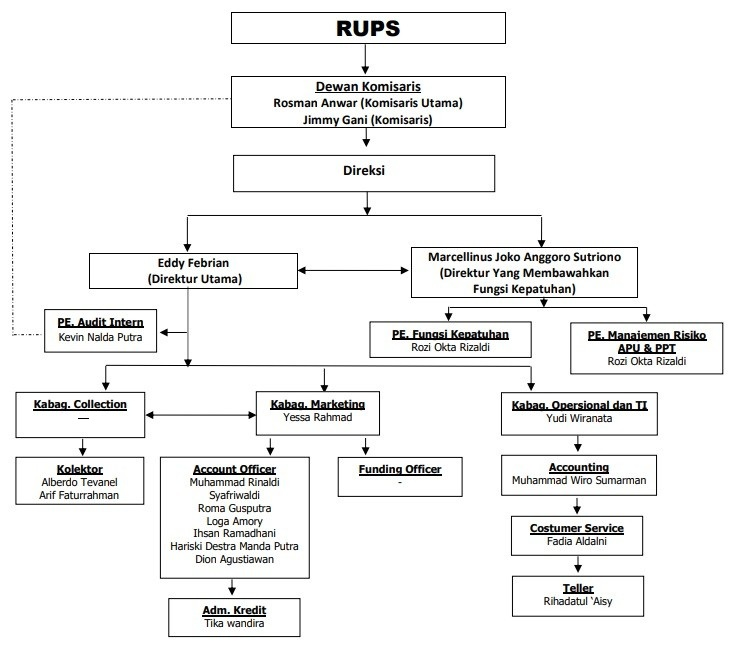
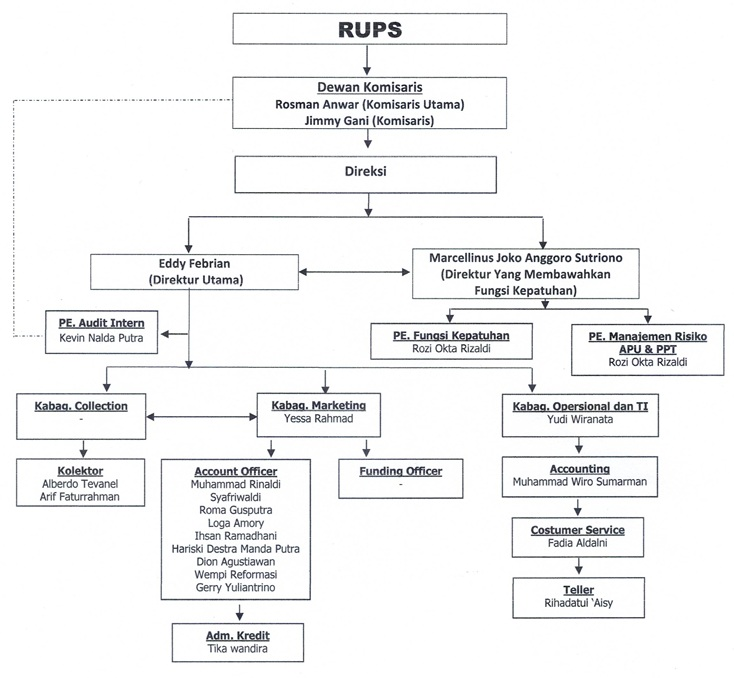
Tambah section promo di home dan update gambar struktur organisasi

diff --git a/resources/views/home.blade.php b/resources/views/home.blade.php
@@ -82,6 +82,59 @@
         </div>
     </section>
 
+    <section id="promo" class="py-20 bg-white">
+        <div class="container mx-auto px-6">
+            <!-- Heading -->
+            <div class="text-center mb-12">
+                <h2 class="text-3xl font-bold mb-4">Promo Terbaru</h2>
+                <p class="text-gray-600 max-w-2xl mx-auto">
+                    Beragam program dan promo menarik dari BPR Tjahaja Baru untuk mendukung masa depan Anda.
+                </p>
+            </div>
+
+            <!-- Grid Promo -->
+            <div class="grid grid-cols-1 sm:grid-cols-2 md:grid-cols-3 lg:grid-cols-5 gap-6 max-w-7xl mx-auto">
+
+                <!-- Promo Item -->
+                <div class="min-w-full sm:min-w-[50%] md:min-w-[33.333%] lg:min-w-[20%] px-3">
+                    <div
+                        class="bg-white rounded-xl shadow hover:shadow-md hover:scale-[1.03] transition duration-300 overflow-hidden">
+                        <img src="{{ url('/images/promo-1.jpg') }}" class="w-full aspect-[5/7] object-cover" alt="Promo 1">
+                    </div>
+                </div>
+
+                <div class="min-w-full sm:min-w-[50%] md:min-w-[33.333%] lg:min-w-[20%] px-3">
+                    <div
+                        class="bg-white rounded-xl shadow hover:shadow-md hover:scale-[1.03] transition duration-300 overflow-hidden">
+                        <img src="{{ url('/images/promo-2.jpg') }}" class="w-full aspect-[5/7] object-cover" alt="Promo 2">
+                    </div>
+                </div>
+
+                <div class="min-w-full sm:min-w-[50%] md:min-w-[33.333%] lg:min-w-[20%] px-3">
+                    <div
+                        class="bg-white rounded-xl shadow hover:shadow-md hover:scale-[1.03] transition duration-300 overflow-hidden">
+                        <img src="{{ url('/images/promo-3.jpg') }}" class="w-full aspect-[5/7] object-cover" alt="Promo 3">
+                    </div>
+                </div>
+
+                <div class="min-w-full sm:min-w-[50%] md:min-w-[33.333%] lg:min-w-[20%] px-3">
+                    <div
+                        class="bg-white rounded-xl shadow hover:shadow-md hover:scale-[1.03] transition duration-300 overflow-hidden">
+                        <img src="{{ url('/images/promo-4.jpg') }}" class="w-full aspect-[5/7] object-cover" alt="Promo 4">
+                    </div>
+                </div>
+
+                <div class="min-w-full sm:min-w-[50%] md:min-w-[33.333%] lg:min-w-[20%] px-3">
+                    <div
+                        class="bg-white rounded-xl shadow hover:shadow-md hover:scale-[1.03] transition duration-300 overflow-hidden">
+                        <img src="{{ url('/images/promo-5.jpg') }}" class="w-full aspect-[5/7] object-cover" alt="Promo 5">
+                    </div>
+                </div>
+
+            </div>
+        </div>
+    </section>
+
     @php
         $mainPost = $posts->first();
         $otherPosts = $posts->skip(1);
